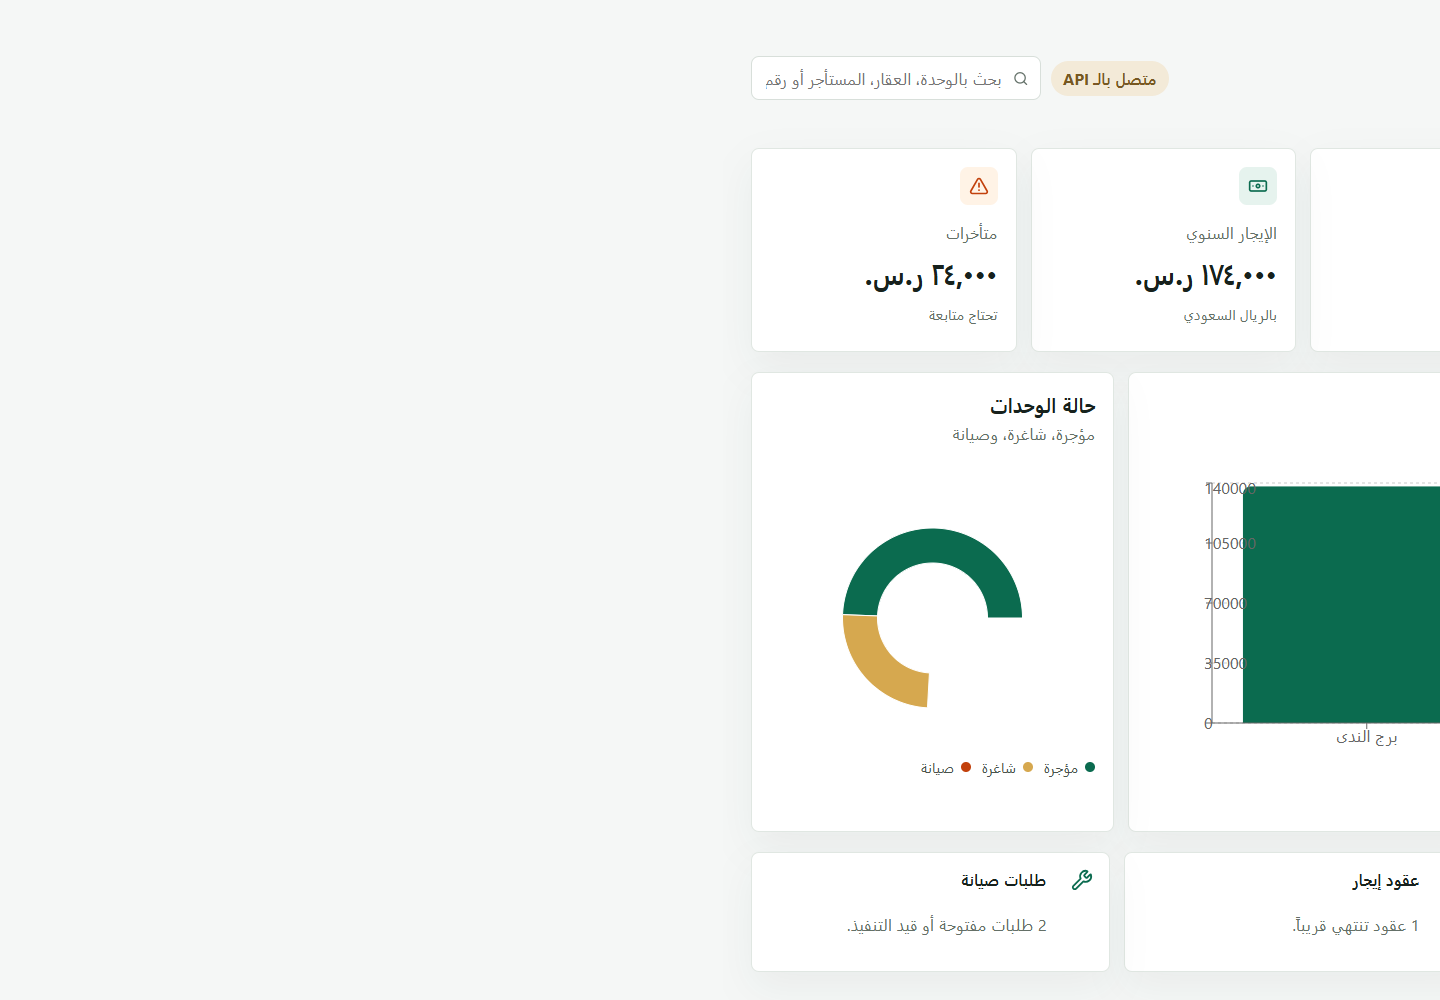
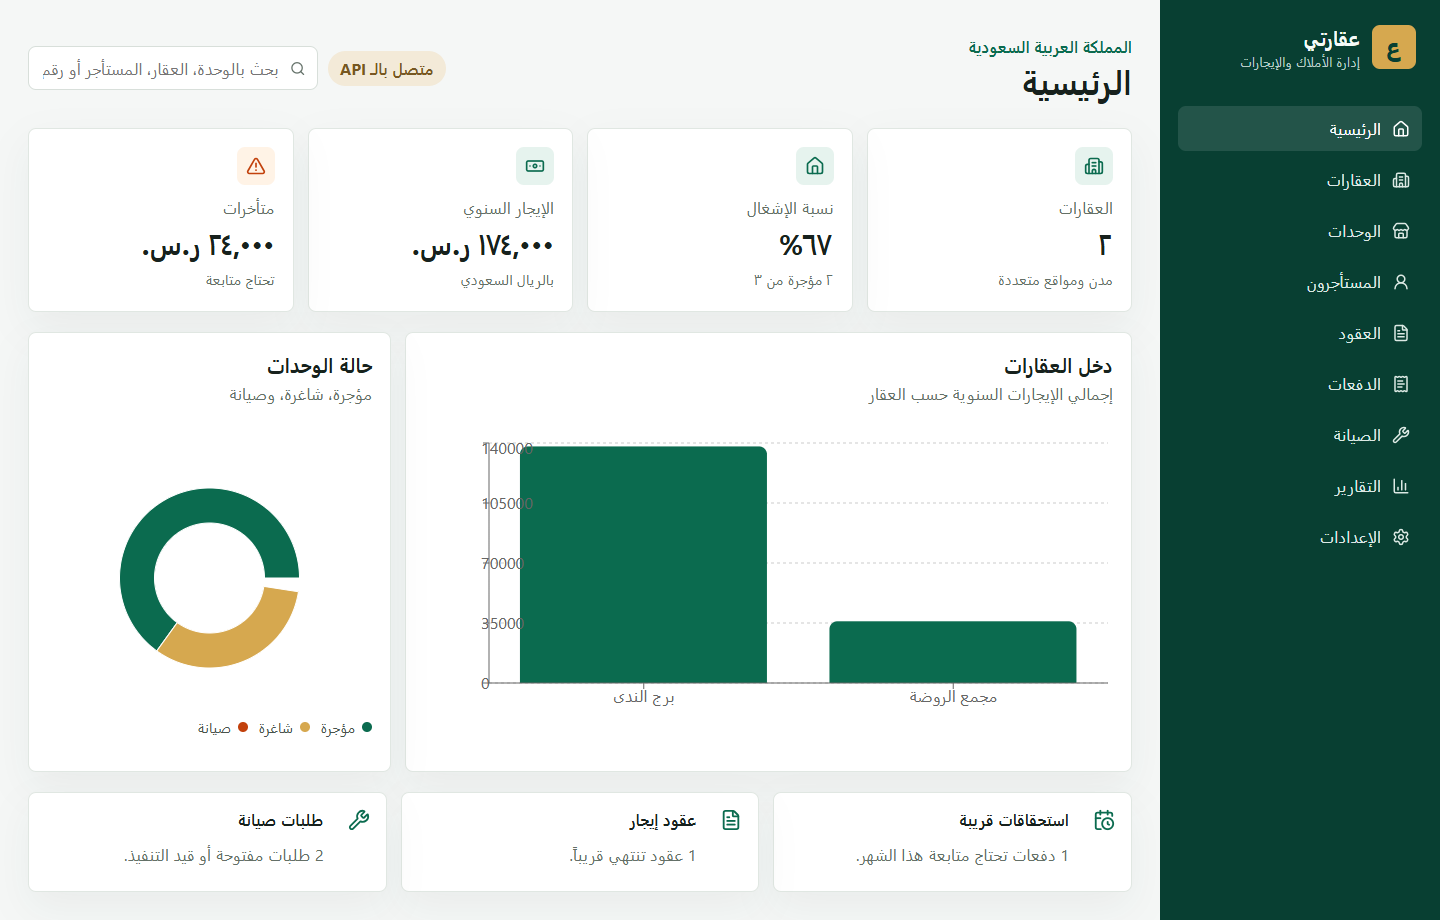
Fix RTL layout screenshots

diff --git a/src/App.css b/src/App.css
@@ -1,12 +1,16 @@
 .app-shell {
+  direction: ltr;
   min-height: 100vh;
   display: grid;
-  grid-template-columns: 280px minmax(0, 1fr);
+  grid-template-columns: minmax(0, 1fr) 280px;
   background: #f5f7f6;
   color: #17211d;
 }
 
 .sidebar {
+  direction: rtl;
+  grid-column: 2;
+  grid-row: 1;
   position: sticky;
   top: 0;
   height: 100vh;
@@ -78,6 +82,10 @@
 }
 
 .workspace {
+  direction: rtl;
+  grid-column: 1;
+  grid-row: 1;
+  min-width: 0;
   padding: 28px;
   display: grid;
   gap: 20px;
@@ -687,8 +695,13 @@ td span {
   }
 
   .sidebar {
+    grid-column: 1;
     position: static;
     height: auto;
+  }
+
+  .workspace {
+    grid-column: 1;
   }
 
   .sidebar nav {
